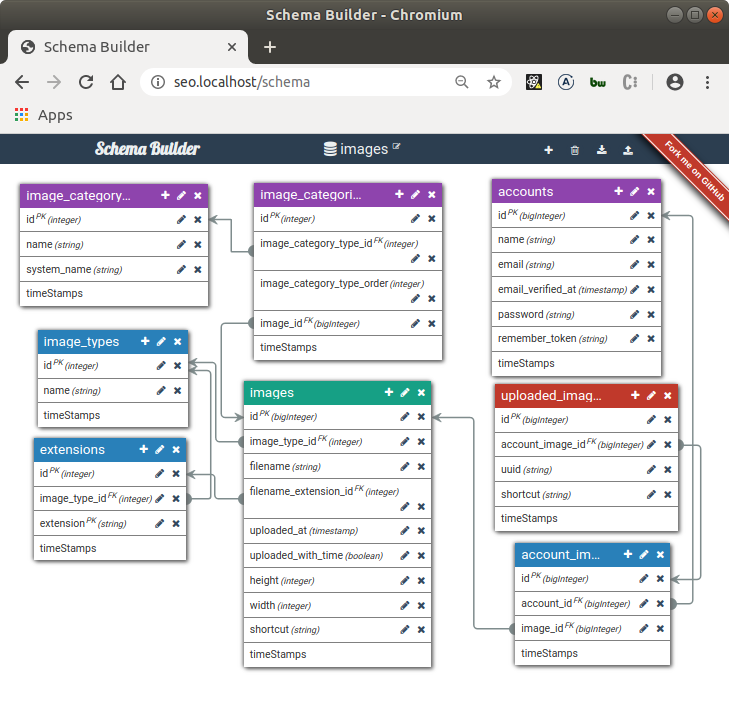
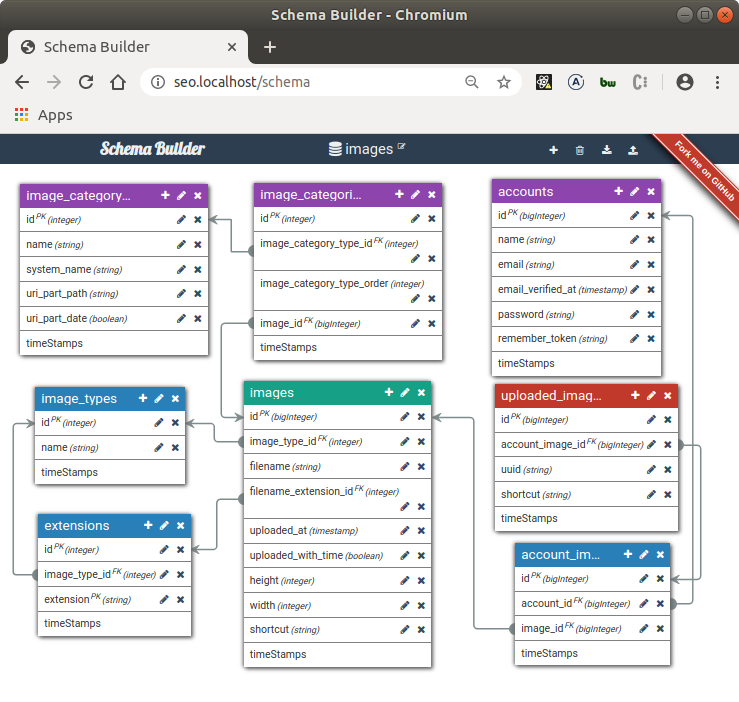
ImageCategoryType.uriPart

diff --git a/resources/views/images/popup.blade.php b/resources/views/images/popup.blade.php
@@ -4,7 +4,7 @@
     <link rel="stylesheet" href="/css/output.f48c2a3e41ca.css"
         type="text/css" media="all" />
 </head>
-
+@inject('imageService', 'App\Services\ImageService')
 <body>
     <div style="display: block;" class="overlay_popup emote_popup">
         <table width="100%" border="0" cellspacing="0" cellpadding="0">
@@ -27,13 +27,14 @@
                     </td>
                 </tr>
                 <tr>
-                    <td><img src="/images/emoticon_div_carrot.gif" alt="div"
-                            width="396" height="12" class="divider"></td>
+                    @php($image = $imageService::getImageByShortcut('emoticon_div_carrot'))
+                    <td><img src="{{$image->src}}" alt="div"
+                            width="{{$image->width}}" height="{{$image->height}}" class="divider"></td>
                 </tr>
             </tbody>
         </table>
     </div>
 </body>
-
-</html>
 @include('scrapers.css_urls')
+</html>
+ 

diff --git a/app/Models/Image.php b/app/Models/Image.php
@@ -16,6 +16,22 @@ class Image extends BaseImage
 		'height',
 		'width'
 	];
+
+	public function category()
+	{
+		return $this->hasOne(ImageCategory::class);
+	}
+	
+	public function getUriPartAttribute()
+	{
+		return '/'.$this->uri_part_path.'/'.(!isset($this->category) || isset($this->category) && $this->category->image_category_type->uri_part_date ? $this->uri_part_date.'/' : '');
+	}
+	
+	public function getUriPartPathAttribute()
+	{
+		// @todo remove constant
+		return isset($this->category) ? $this->category->image_category_type->uri_part_path : 'uploads/avatar';
+	}
 	
 	public function getUriPartDateAttribute()
 	{
@@ -29,7 +45,6 @@ class Image extends BaseImage
 	
 	public function getSrcAttribute()
 	{
-		// @todo pathPart in categoryType
-		return '/uploads/avatar/'.$this->uri_part_date.'/'.$this->filename.'.'.$this->extension;
+		return $this->uri_part.$this->filename.'.'.$this->extension;
 	}
 }

diff --git a/app/Http/Controllers/ImageController.php b/app/Http/Controllers/ImageController.php
@@ -13,7 +13,7 @@ class ImageController extends Controller
         $images = Image::all();
 
         // @todo relations
-        $images = $images->slice(0, -2);
+        $images = $images->slice(0, -3);
         // foreach ($images as $image) {
         //     $imageCategoryType = $image->categoryType;
         //     if ($imageCategoryType) {

diff --git a/app/Services/ImageService.php b/app/Services/ImageService.php
@@ -1,0 +1,13 @@
+<?php
+
+namespace App\Services;
+
+use App\Models\Image;
+
+class ImageService
+{
+	public static function getImageByShortcut(string $shortcut)
+	{
+        return Image::where('shortcut', $shortcut)->first();
+	}
+}
